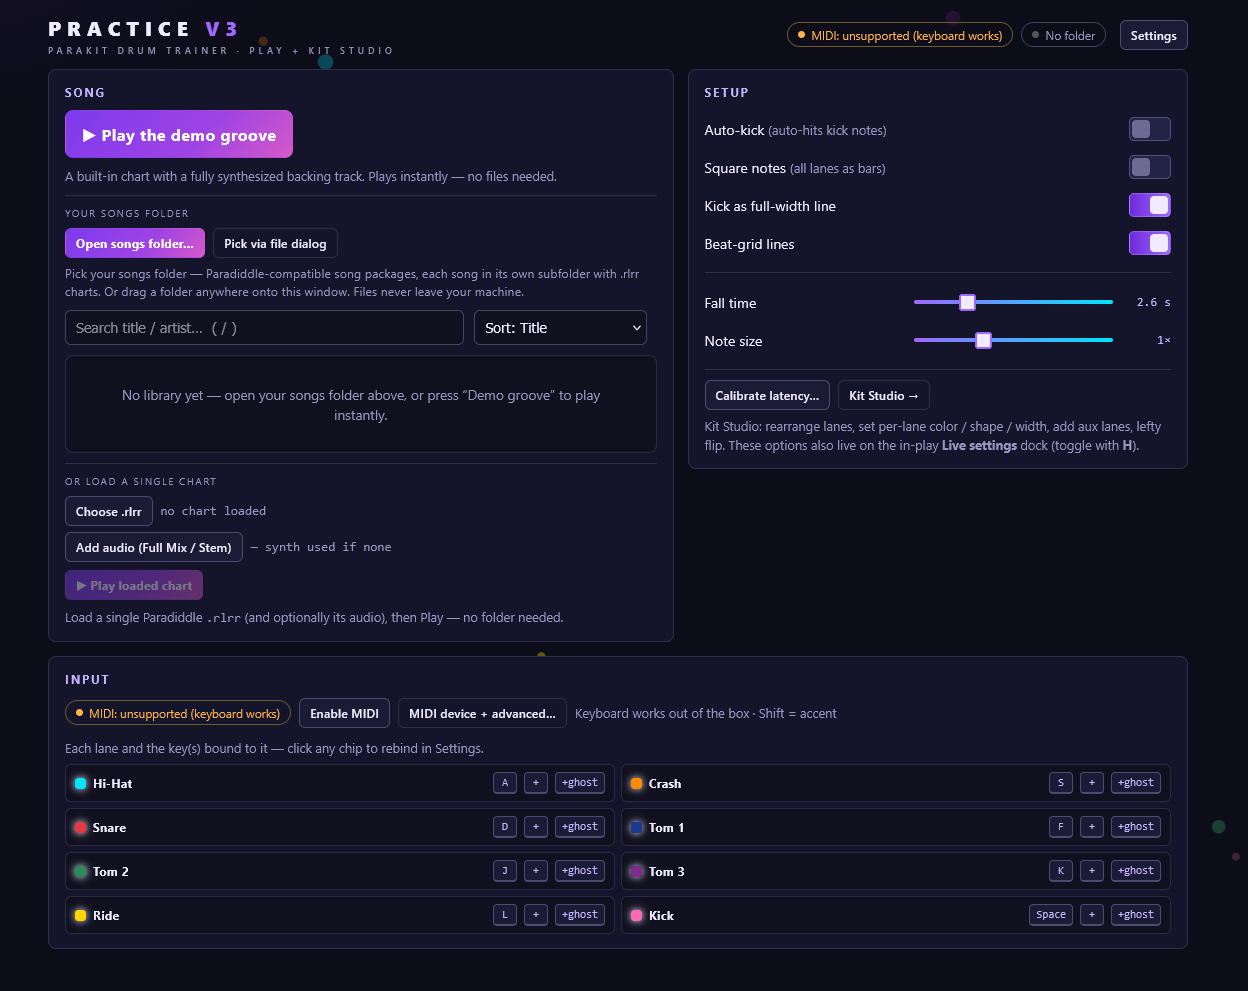
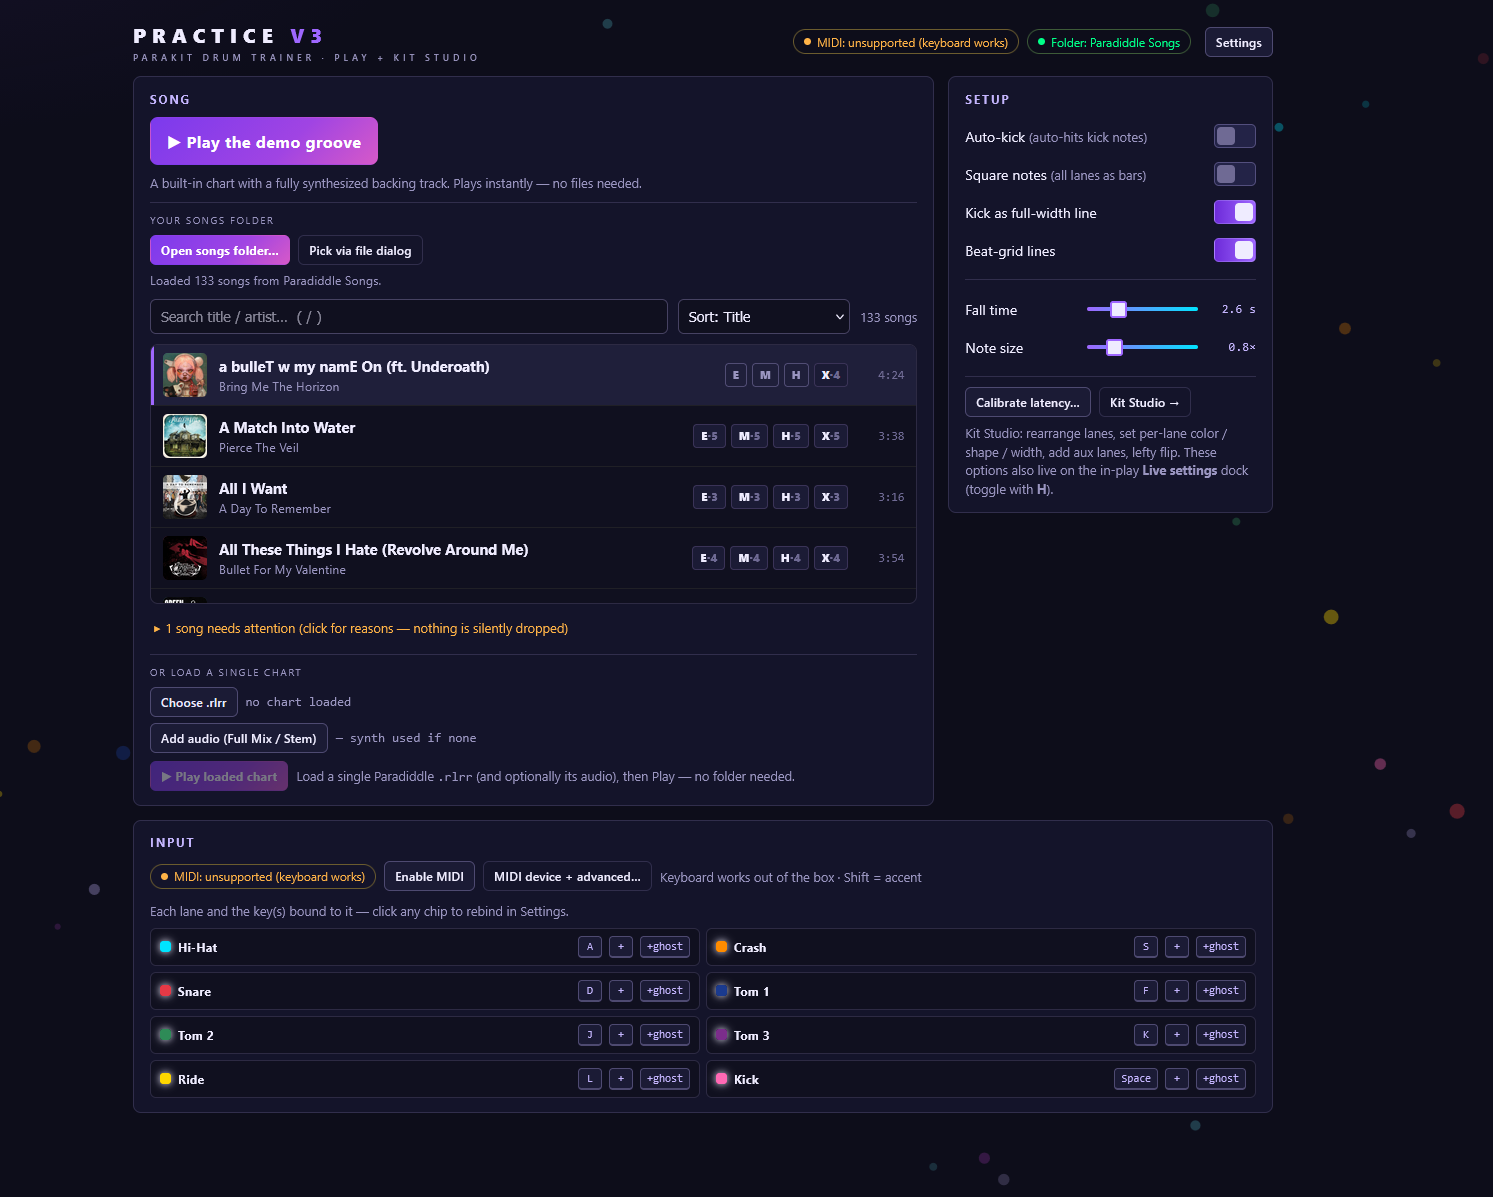
Practice Mode v3: mute-synth toggle + "Voice"->"Sound" + populated-library home screenshot
- New "Mute synth" toggle in the in-play Live-settings dock (key M) that zeroes the
  synth bus, so a loaded song's real audio plays without the synthesized hits doubling
  it. Off by default; applied through applyYouDrum's bus gains.
- Kit Studio: per-lane "Voice" control renamed to "Sound" for clarity.
- Replaced the v3 home screenshot with a populated-library shot (133 songs) - nicer first impression.
- Changelog entry. JS syntax-checked.

diff --git a/Practice Window v3 - Web Edition/parakit-practice-v3.html b/Practice Window v3 - Web Edition/parakit-practice-v3.html
@@ -540,6 +540,7 @@ body.reduceMotion *{animation:none !important; transition:none !important}
       <div class="drow" data-k="beatgrid"><span class="keycap">4</span><span>Beat grid</span><b id="dBg"></b></div>
       <div class="drow" data-k="kickline"><span class="keycap">5</span><span>Kick as line</span><b id="dKl"></b></div>
       <div class="drow" data-k="square"><span class="keycap">6</span><span>Square notes</span><b id="dSq"></b></div>
+      <div class="drow" data-k="mutesynth"><span class="keycap">M</span><span>Mute synth</span><b id="dMute"></b></div>
       <div class="drow" data-k="speed-"><span class="keycap">−</span><span>Speed down</span><b id="dSpd" class="mono"></b></div>
       <div class="drow" data-k="speed+"><span class="keycap">+</span><span>Speed up</span><b></b></div>
       <div class="drow" data-k="loopA"><span class="keycap">[</span><span>Loop A at playhead</span><b id="dLa"></b></div>
@@ -608,9 +609,9 @@ body.reduceMotion *{animation:none !important; transition:none !important}
             <div class="shapeRow" id="stShapes"></div></div>
           <div class="row"><label>Fold into</label>
             <select id="stFold" aria-label="Fold this lane into another"></select></div>
-          <div class="row"><label>Voice</label>
+          <div class="row"><label>Sound</label>
             <select id="stVoice" aria-label="Lane voice"></select>
-            <button class="btn btn-sm btn-ghost" id="stVoiceTest" title="Audition voice">♪</button></div>
+            <button class="btn btn-sm btn-ghost" id="stVoiceTest" title="Audition sound">♪</button></div>
           <div class="row"><label>Keys</label><span id="stKeys" class="hint mono"></span>
             <button class="btn btn-sm btn-ghost" id="stBindJump">Edit binds…</button></div>
         </div>
@@ -2750,7 +2751,7 @@ const DEFAULT_PREFS = {
   sort: "title",
   kbPreset: "standard",
   binds: null,                 // null → preset default
-  busSong: 1.0, busDrums: 1.0, busSynth: 0.9, busMaster: 0.92,
+  busSong: 1.0, busDrums: 1.0, busSynth: 0.9, busMaster: 0.92, muteSynth: false,
   preferredDifficulty: "Expert",
   bootDone: false,
   midiAuto: false,             // try MIDI silently on boot after first grant
@@ -3985,7 +3986,7 @@ function applyYouDrum() {
   const hasDrumStems = APP.audio.hasBus("drums");
   const you = prefs.youDrum || !hasDrumStems;   // no drum stems ⇒ you ARE the drums
   APP.audio.setBusGain("drums", you ? 0 : prefs.busDrums);
-  APP.audio.setBusGain("synth", you ? Math.max(0.7, prefs.busSynth) : prefs.busSynth);
+  APP.audio.setBusGain("synth", prefs.muteSynth ? 0 : (you ? Math.max(0.7, prefs.busSynth) : prefs.busSynth));
   APP.audio.setBusGain("song", prefs.busSong);
   APP.audio.setBusGain("master", prefs.busMaster);
 }
@@ -4072,6 +4073,7 @@ function syncDock() {
   onoff("dYou", prefs.youDrum); onoff("dMet", prefs.metronome);
   onoff("dAk", prefs.autoKick); onoff("dBg", prefs.beatGrid);
   onoff("dKl", prefs.kickLine); onoff("dSq", prefs.square);
+  onoff("dMute", prefs.muteSynth);
   $("dSpd").textContent = Math.round(prefs.speed * 100) + "%";
 }
 function dockToggle(k) {
@@ -4086,6 +4088,7 @@ function dockToggle(k) {
   else if (k === "loopA") setLoopPoint("A");
   else if (k === "loopB") setLoopPoint("B");
   else if (k === "loopX") clearLoop();
+  else if (k === "mutesynth") { setPref("muteSynth", !prefs.muteSynth); applyYouDrum(); }
   else if (k === "hideDock") { toggleDock(); return; }
   syncDock();
 }
@@ -5382,6 +5385,7 @@ function wireGlobalKeys() {
         case "Digit4": dockToggle("beatgrid"); return;
         case "Digit5": dockToggle("kickline"); return;
         case "Digit6": dockToggle("square"); return;
+        case "KeyM": dockToggle("mutesynth"); return;
         case "BracketLeft": e.preventDefault(); setLoopPoint("A"); return;
         case "BracketRight": e.preventDefault(); setLoopPoint("B"); return;
         case "Backslash": e.preventDefault(); clearLoop(); return;

diff --git a/README.md b/README.md
@@ -275,6 +275,11 @@ source and compiling a standalone `.exe`.
 
 ## Changelog
 
+### Practice Mode v3 (Web Edition) — 2026-06-12
+- **Mute synth** toggle added to the in-play Live-settings dock (key **M**) — silences the
+  synthesized drum hits while playing a loaded song, so you hear the real audio. Off by default.
+- Kit Studio: the per-lane **Voice** control is renamed **Sound** for clarity.
+
 ### Preview Track v2 (Web Edition) — 2026-06-12
 - **Hide notes past the hit line.** New toggle in Preview Settings (off by default) — hides
   notes once they cross the hit line / playhead so only upcoming notes remain on screen, for